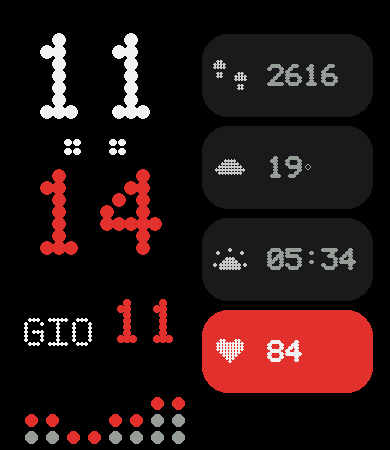
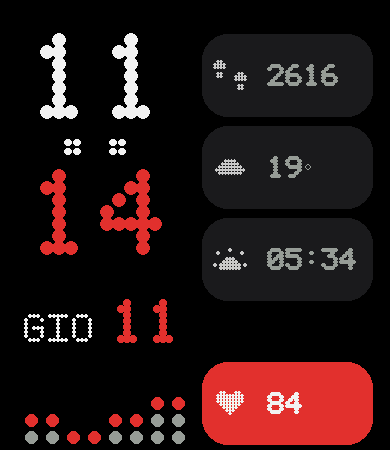
Verticale: pill battito (row 3) abbassato a y362 per allinearlo alla banda equalizer (battito+visualizzazione sulla stessa altezza)

Changed region(s): [[0.4923, 0.6844, 0.9538, 0.9956], [0.0615, 0.6844, 0.2462, 0.7778]]

diff --git a/watchface/bip-6/index.js b/watchface/bip-6/index.js
@@ -106,7 +106,7 @@ WatchFace({
 
     // ===== COLONNA DESTRA: 4 pill impilate =====
     const PX = 202, PW = 170, PH = 82, R = 28;
-    const rowY = [34, 126, 218, 310];
+    const rowY = [34, 126, 218, 362];  // pill battito (row 3) allineato alla banda equalizer
 
     function pill(py, red, kind) {
       try {

diff --git a/tools/mockup_v_anim.py b/tools/mockup_v_anim.py
@@ -47,7 +47,7 @@ def base_face():
 
     # 4 pill a destra
     PX, PW, PH = 202, 170, 82
-    rowY = [34, 126, 218, 310]
+    rowY = [34, 126, 218, 362]  # pill battito allineato alla banda equalizer
     pills = [
         (W12.ICONS["sun"] and None, "runner", "2616", PILL_BG, GREY),  # placeholder
     ]